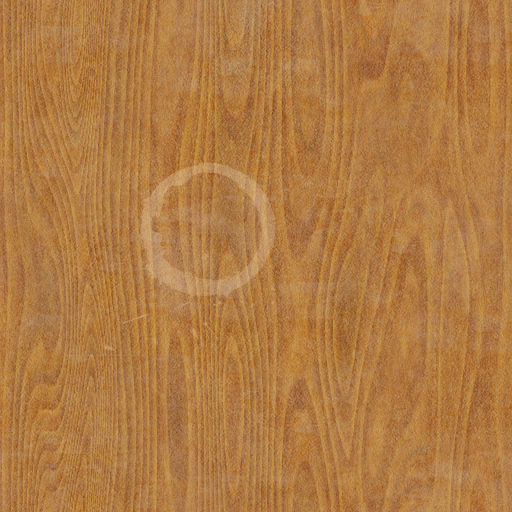
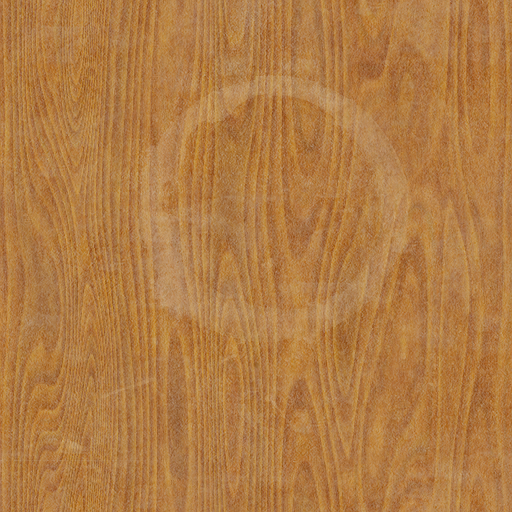
The Bread Update
Desks have proper bread now. Some moving code and graphics. Added desk
code.

diff --git a/js/core.js b/js/core.js
@@ -1,17 +1,25 @@
 var drawInstance;
 var canvas;
 var canvasCtx;
-var mouseX = 0;
-var mouseY = 0;
+var mouseLocation = {x: 0, y: 0};
+var mouseButtons = {lmb: false, mmb: false, rmb: false};
 var canvasBounds = {x1:0, y1:0, x2:0, y2:0};
-var graphicDeskCoffeeStain = new Image();
+var graphicDesk = new Image();
+var graphicDesk1 = new Image();
+var graphicDesk2 = new Image();
+var graphicDesk3 = new Image();
+var desk;
 
 $(document).ready(function() {
+	resizeCanvas();
 	initialise();
 });
 
 function initialiseGraphics() {
-	graphicDeskCoffeeStain.src = 'images/desk/desk-coffee.png';
+	graphicDesk.src = 'images/desk/desk.png';
+	graphicDesk1.src = 'images/desk/desk-coffee.png';
+	graphicDesk2.src = 'images/desk/desk-pen1.png';
+	graphicDesk3.src = 'images/desk/desk-bread.png';
 }
 
 function initialise() {
@@ -54,8 +62,10 @@ function contextHandler(e) {
 }
 
 function mouseMoveHandler(e) {
-    mouseX = (e.clientX - canvasBounds.x1);
-    mouseY = (e.clientY - canvasBounds.y1);
+	mouseLocation = {
+		x: (e.clientX - canvasBounds.x1),
+		y: (e.clientY - canvasBounds.y1)
+	};
 }
 
 function mouseWheel(e) {
@@ -70,6 +80,9 @@ function mouseDownHandler(e) {
 	switch(e.which) {
 		case 1:
 			//LMB
+			mouseButtons.lmb = true;
+			captureMouse(mouseLocation);
+			checkInput(mouseLocation, mouseButtons);
 			break;
 		case 2:
 			//MMB
@@ -84,6 +97,8 @@ function mouseUpHandler(e) {
 	switch(e.which) {
 		case 1:
 			//LMB
+			mouseButtons.lmb = false;
+			checkInput(mouseLocation, mouseButtons);
 			break;
 		case 2:
 			//MMB
@@ -95,10 +110,10 @@ function mouseUpHandler(e) {
 }
 
 function mouseInBounds() {
-    if(mouseX > canvasBounds.x1
-		&& mouseX < canvasBounds.x2
-		&& mouseY > canvasBounds.y1
-		&& mouseY < canvasBounds.y2
+    if(mouseLocation.x > canvasBounds.x1
+		&& mouseLocation.x < canvasBounds.x2
+		&& mouseLocation.y > canvasBounds.y1
+		&& mouseLocation.y < canvasBounds.y2
 	) {
         return true;
     } else {
@@ -106,9 +121,79 @@ function mouseInBounds() {
     }
 }
 
+var yLocation = {
+	x: 100,
+	y: 100
+}
+var ySize = {
+	w: 800,
+	h: 500
+}
+function checkInput(mouseLocation, mouseButtons) {
+	if(mouseInBounds2(mouseLocation) && mouseButtons.lmb) {
+		console.log('youve clicked me');
+	}
+	if(!mouseButtons.lmb && capturedLocation != null) {
+		yLocation = {
+			x: yLocation.x -= diff(mouseLocation.x, capturedLocation.x),
+			y: yLocation.y -= diff(mouseLocation.y, capturedLocation.y)
+		}
+		capturedLocation = null;
+	}
+}
+var capturedLocation = null;
+function captureMouse(mouseLocation) {
+	capturedLocation = mouseLocation;
+}
+function mouseInBounds2(mouseLocation) {
+    if(mouseLocation.x > yLocation.x
+		&& mouseLocation.x < (yLocation.x + ySize.w)
+		&& mouseLocation.y > yLocation.y
+		&& mouseLocation.y < (yLocation.y + ySize.h)
+	) {
+        return true;
+    } else {
+        return false;
+    }
+}
+function render() {
+	var newLocation = {
+		x: yLocation.x,
+		y: yLocation.y
+	};
+	if(mouseButtons.lmb && capturedLocation != null) {
+		newLocation.x -= diff(mouseLocation.x, capturedLocation.x);
+		newLocation.y -= diff(mouseLocation.y, capturedLocation.y);
+	}
+	canvasCtx.beginPath();
+	canvasCtx.fillStyle = "#212121";
+	canvasCtx.rect(newLocation.x, newLocation.y, ySize.w, ySize.h);
+	canvasCtx.fill();
+	canvasCtx.closePath();
+}
+
+function diff(a, b) {
+	var ret = Math.abs(a - b);
+	if(b < a) {
+		ret = -ret;
+	}
+	return ret;
+}
+
 function draw() {
 	resizeCanvas();
     canvasCtx.clearRect(0, 0, canvas.width, canvas.height);
+	if(desk) {
+		desk.render(canvasCtx);
+	}
+	render();
+	/*
+	canvasCtx.beginPath();
+	canvasCtx.fillStyle = "#454545";
+	canvasCtx.rect(500, 500, 800, 300);
+	canvasCtx.fill();
+	canvasCtx.closePath();
+	*/
 	// Image
 	//canvasCtx.drawImage(graphicDeskCoffeeStain, 100, 100, 512, 512);
 	// Text
@@ -118,7 +203,8 @@ function draw() {
 	canvasCtx.fillText(canvasCtx.measureText("Some Text").width, 20, 20);
 	*/
 	centerTextXY("Welcome to Tickets Please!", "30", {x:null, y:-10});
-	centerTextXY("To begin a game, select New Game from the menu.", "15", {x:null, y:10});
+	centerTextXY("", "15", {x:null, y:10});
+	//centerTextXY("To begin a game, select New Game from the menu.", "15", {x:null, y:10});
 	// Square
 	/*
 	canvasCtx.beginPath();

diff --git a/js/objects/desk.js b/js/objects/desk.js
@@ -1,0 +1,24 @@
+class Desk {
+    constructor(type) {
+        console.log('new desk');
+        this.type = type;
+        this.graphics = new Array();
+        for(var x = 0; x < Math.ceil(getCanvasSize().width / 512); x++) {
+            for(var y = 0; y < Math.ceil(getCanvasSize().height / 512); y++) {
+                var seed = Math.floor(1 + (Math.random() * 13));
+                var src = 'graphicDesk' + (seed > 10 ? (seed - 10) : '');
+                console.log(seed + ' | ' + src);
+                this.graphics.push({
+                    src: src,
+                    x: (512 * x),
+                    y: (512 * y)
+                });
+            }
+        }
+    }
+    render(context) {
+        for(var i = 0; i < this.graphics.length; i++) {
+            context.drawImage(window[this.graphics[i].src], this.graphics[i].x, this.graphics[i].y, 512, 512);
+        }
+    }
+}

diff --git a/js/sidebar.js b/js/sidebar.js
@@ -21,6 +21,7 @@ function switchSidebar(type) {
         data: {},
         success: function(response) {
             $('sidebar').html(response);
+        	desk = new Desk();
         }
     })
 }

diff --git a/js/utils/utilSizes.js b/js/utils/utilSizes.js
@@ -1,0 +1,6 @@
+function getCanvasSize() {
+    return {
+        width: (canvasBounds.x2 - canvasBounds.x1),
+        height: (canvasBounds.y2 - canvasBounds.y1)
+    };
+}

diff --git a/js/graphics.js b/js/graphics.js
@@ -1,0 +1,1 @@
+var graphicDesk

diff --git a/imports/references.php b/imports/references.php
@@ -1,7 +1,9 @@
 <!-- JavaScript -->
 <script src="https://ajax.googleapis.com/ajax/libs/jquery/3.1.0/jquery.min.js"></script>
+<script src="js/objects/desk.js"></script>
 <script src="js/core.js"></script>
 <script src="js/sidebar.js"></script>
+<script src="js/utils/utilSizes.js"></script>
 <!-- CSS -->
 <link type="text/css" rel="stylesheet" href="css/style.css" />
 <link type="text/css" rel="stylesheet" href="css/sidebar.css" />
